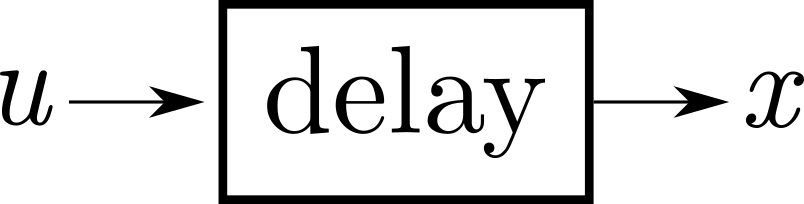
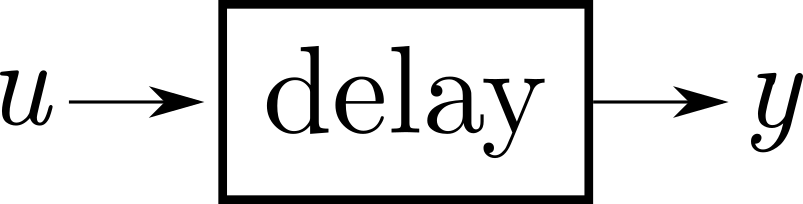
Change example block diagram to use y instead of x

diff --git a/intro.html b/intro.html
@@ -488,7 +488,7 @@ href="https://www.youtube.com/channel/UChfUOAhz7ynELF-s_1LPpWg">Lecture  videos 
                     <img style="width:25%", src="figures/exercises/sum.png"/>
                     <img style="margin-left:10%; width:35%", src="figures/exercises/delay.png"/>
                 </figure>
-                For example, the system $x[n] = u[n-1]$ would be represented as follows:
+                For example, the system $y[n] = u[n-1]$ would be represented as follows:
                 <figure>
                     <img style="width:45%", src="figures/exercises/block_diagram_example.png"/>
                 </figure>
